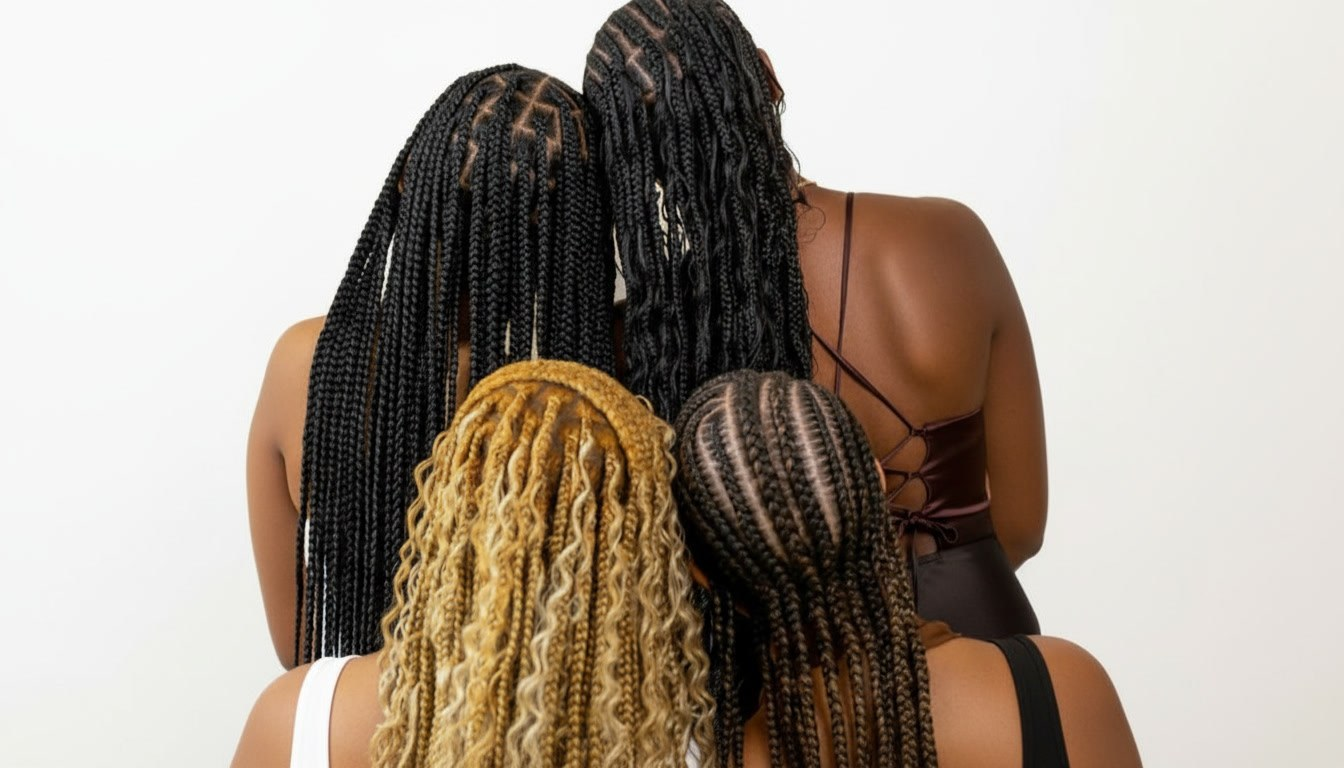
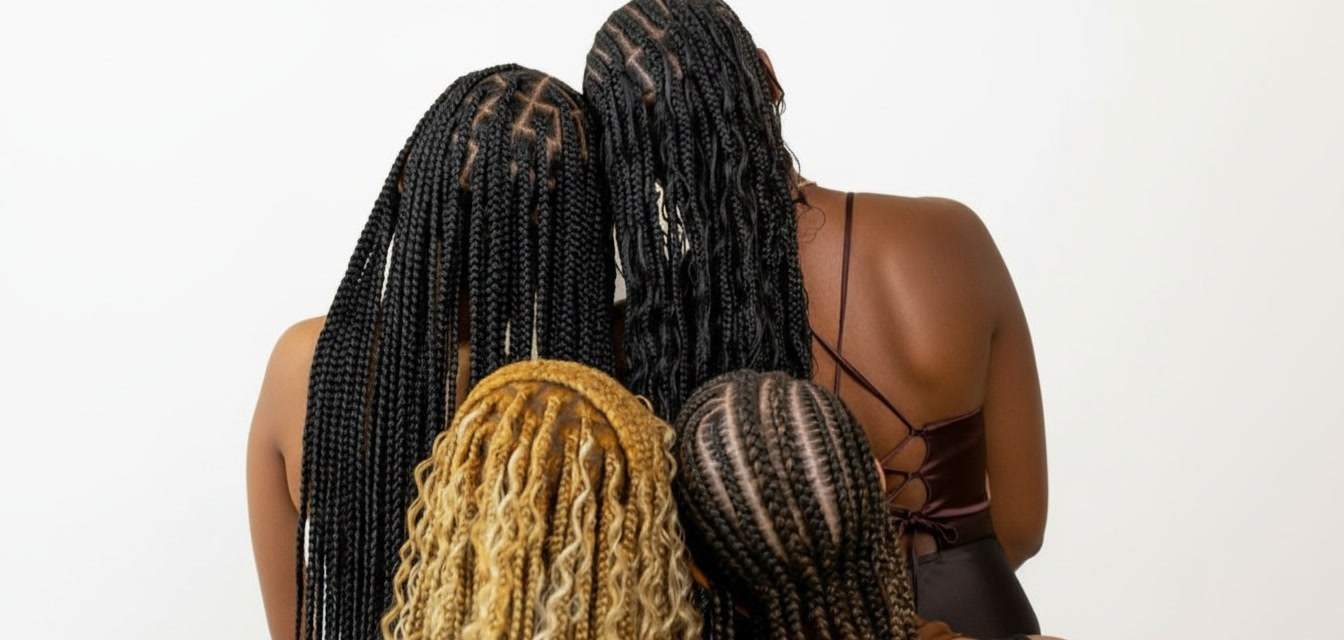
Allège le voile sur la photo, texte en noir, recadre la photo
- Voile beige réduit (0.86 -> 0.5) pour laisser plus voir la photo
- Titre et paragraphe de la section bienvenue passés en noir (ink)
- Photo recadrée pour couper le bas (torses) et ancrée en haut pour
  bien centrer les tresses dans l'arche

Claude-Session: https://claude.ai/code/session_01CX8ZdUscjJzGyMsvMAxwtc

diff --git a/assets/css/style.css b/assets/css/style.css
@@ -497,10 +497,10 @@ section { padding: 110px 0; }
 .welcome-arch-panel {
   width: 100%;
   background-image:
-    linear-gradient(rgba(247, 236, 230, 0.86), rgba(247, 236, 230, 0.86)),
+    linear-gradient(rgba(247, 236, 230, 0.5), rgba(247, 236, 230, 0.5)),
     url('../img/arch-braids.jpg');
   background-size: cover;
-  background-position: center 25%;
+  background-position: center top;
   border-radius: 50% 50% 0 0 / clamp(90px, 24vw, 380px) clamp(90px, 24vw, 380px) 0 0;
   padding: clamp(150px, 30vw, 420px) 24px 70px;
   text-align: center;
@@ -513,7 +513,7 @@ section { padding: 110px 0; }
 
 .welcome-arch-panel .section-eyebrow {
   margin: 0 0 22px;
-  color: var(--color-rose-dark);
+  color: var(--color-ink);
   font-family: var(--font-display);
   font-weight: 600;
   font-size: 2.1rem;
@@ -543,7 +543,7 @@ section { padding: 110px 0; }
 }
 
 .welcome-arch-panel p:not(.section-eyebrow) {
-  color: var(--color-ink-soft);
+  color: var(--color-ink);
   font-family: var(--font-display);
   font-weight: 500;
   font-size: 1.25rem;
